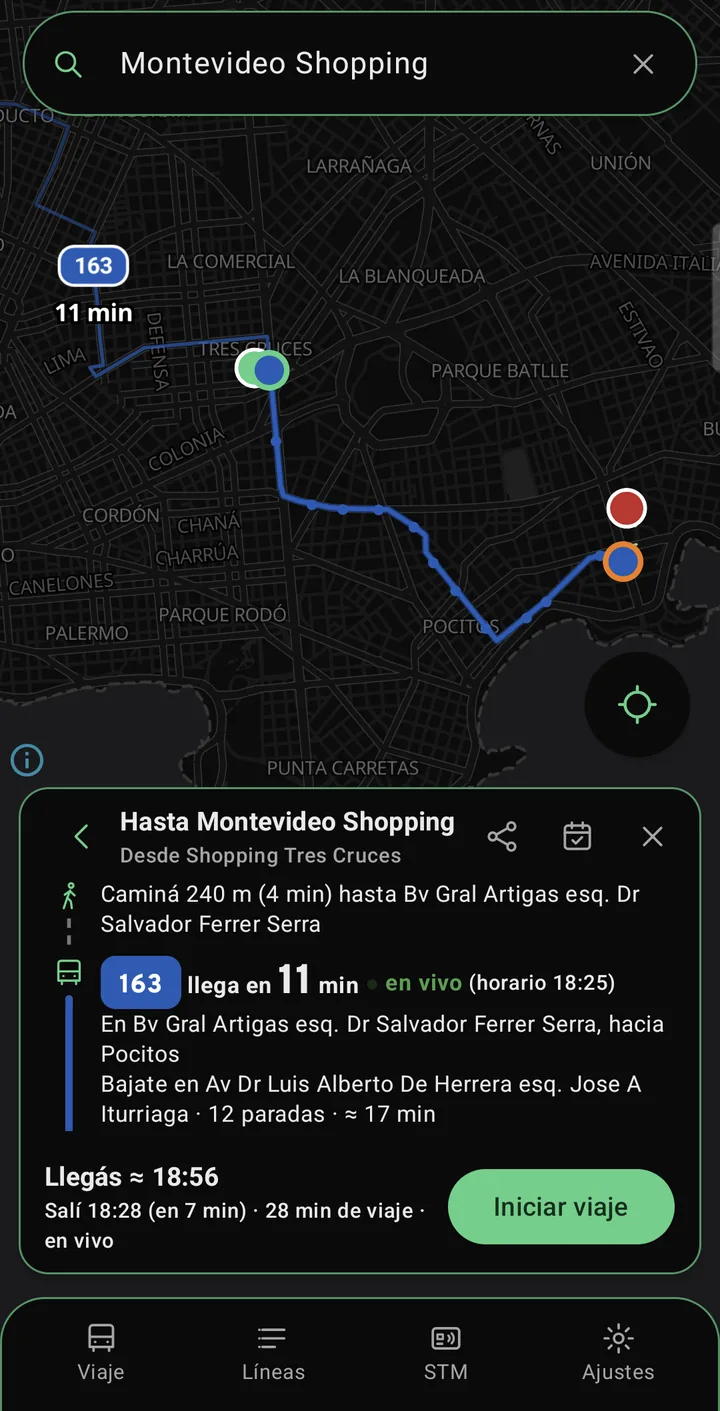
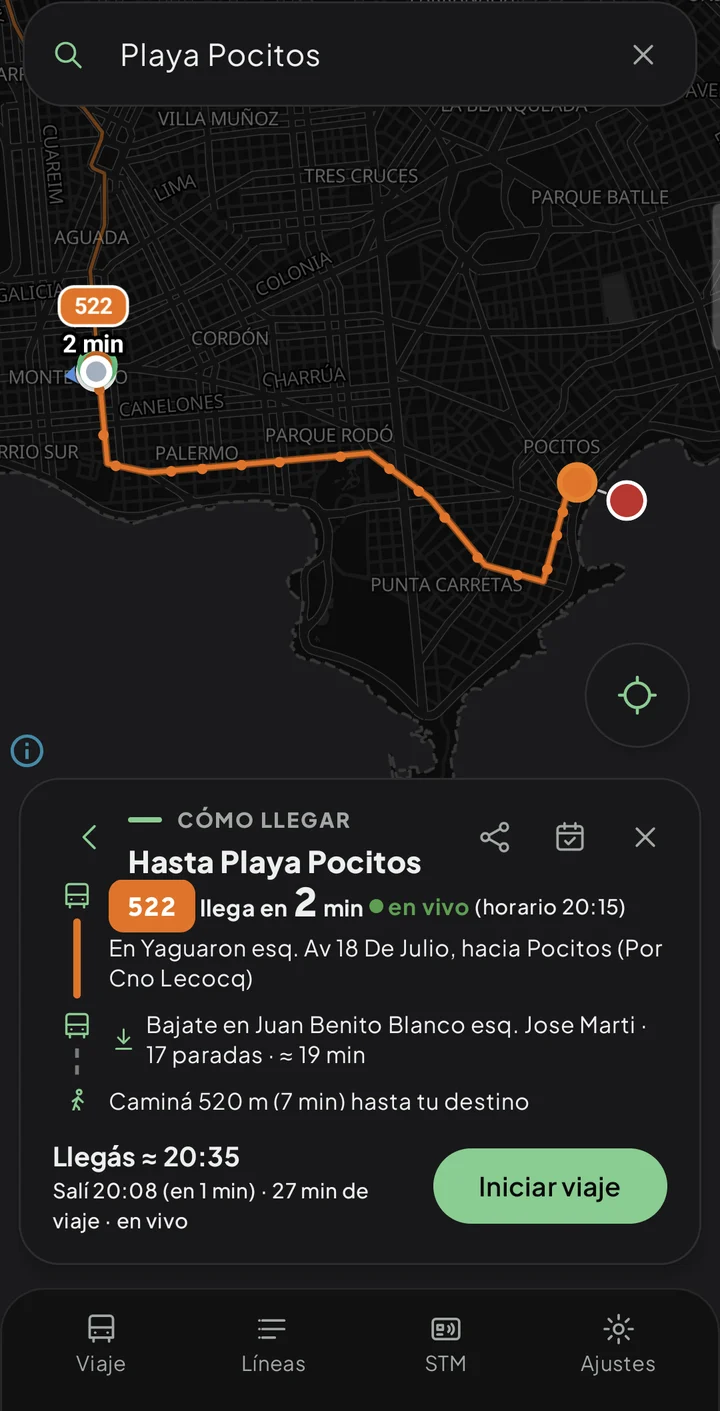
Capturas nuevas de la app con el estilo de la web (oscuro y claro)

diff --git a/index.html b/index.html
@@ -263,7 +263,7 @@
             </button>
           </div>
         </div>
-        <div class="carrusel" id="lista-capturas" tabindex="0" aria-label="Capturas de pantalla"><!--auto--><figure class="captura revelar" style="--retardo:0ms"><div class="captura__marco"><div class="captura__vacia"><span class="icono"><svg viewBox="0 0 24 24" fill="none" stroke="currentColor" stroke-width="2" stroke-linecap="round" stroke-linejoin="round" aria-hidden="true"><rect x="3" y="3" width="18" height="18" rx="3"/><circle cx="9" cy="9" r="2"/><path d="M21 15l-5-5L5 21"/></svg></span>Captura en camino</div><img src="img/capturas/captura-1.webp?v=3" alt="Elegí cómo ir" loading="lazy" decoding="async"></div><figcaption>Elegí cómo ir</figcaption></figure><figure class="captura revelar" style="--retardo:90ms"><div class="captura__marco"><div class="captura__vacia"><span class="icono"><svg viewBox="0 0 24 24" fill="none" stroke="currentColor" stroke-width="2" stroke-linecap="round" stroke-linejoin="round" aria-hidden="true"><rect x="3" y="3" width="18" height="18" rx="3"/><circle cx="9" cy="9" r="2"/><path d="M21 15l-5-5L5 21"/></svg></span>Captura en camino</div><img src="img/capturas/captura-2.webp?v=3" alt="Ómnibus en vivo" loading="lazy" decoding="async"></div><figcaption>Ómnibus en vivo</figcaption></figure><figure class="captura revelar" style="--retardo:180ms"><div class="captura__marco"><div class="captura__vacia"><span class="icono"><svg viewBox="0 0 24 24" fill="none" stroke="currentColor" stroke-width="2" stroke-linecap="round" stroke-linejoin="round" aria-hidden="true"><rect x="3" y="3" width="18" height="18" rx="3"/><circle cx="9" cy="9" r="2"/><path d="M21 15l-5-5L5 21"/></svg></span>Captura en camino</div><img src="img/capturas/captura-3.webp?v=3" alt="Planificá tu viaje" loading="lazy" decoding="async"></div><figcaption>Planificá tu viaje</figcaption></figure><figure class="captura revelar" style="--retardo:270ms"><div class="captura__marco"><div class="captura__vacia"><span class="icono"><svg viewBox="0 0 24 24" fill="none" stroke="currentColor" stroke-width="2" stroke-linecap="round" stroke-linejoin="round" aria-hidden="true"><rect x="3" y="3" width="18" height="18" rx="3"/><circle cx="9" cy="9" r="2"/><path d="M21 15l-5-5L5 21"/></svg></span>Captura en camino</div><img src="img/capturas/captura-4.webp?v=3" alt="Todo el recorrido" loading="lazy" decoding="async"></div><figcaption>Todo el recorrido</figcaption></figure><figure class="captura revelar" style="--retardo:270ms"><div class="captura__marco"><div class="captura__vacia"><span class="icono"><svg viewBox="0 0 24 24" fill="none" stroke="currentColor" stroke-width="2" stroke-linecap="round" stroke-linejoin="round" aria-hidden="true"><rect x="3" y="3" width="18" height="18" rx="3"/><circle cx="9" cy="9" r="2"/><path d="M21 15l-5-5L5 21"/></svg></span>Captura en camino</div><img src="img/capturas/captura-5.webp?v=3" alt="Todas las líneas" loading="lazy" decoding="async"></div><figcaption>Todas las líneas</figcaption></figure><!--/auto--></div>
+        <div class="carrusel" id="lista-capturas" tabindex="0" aria-label="Capturas de pantalla"><!--auto--><figure class="captura revelar" style="--retardo:0ms"><div class="captura__marco"><div class="captura__vacia"><span class="icono"><svg viewBox="0 0 24 24" fill="none" stroke="currentColor" stroke-width="2" stroke-linecap="round" stroke-linejoin="round" aria-hidden="true"><rect x="3" y="3" width="18" height="18" rx="3"/><circle cx="9" cy="9" r="2"/><path d="M21 15l-5-5L5 21"/></svg></span>Captura en camino</div><img src="img/capturas/captura-1.webp?v=4" alt="Elegí cómo ir" loading="lazy" decoding="async"></div><figcaption>Elegí cómo ir</figcaption></figure><figure class="captura revelar" style="--retardo:90ms"><div class="captura__marco"><div class="captura__vacia"><span class="icono"><svg viewBox="0 0 24 24" fill="none" stroke="currentColor" stroke-width="2" stroke-linecap="round" stroke-linejoin="round" aria-hidden="true"><rect x="3" y="3" width="18" height="18" rx="3"/><circle cx="9" cy="9" r="2"/><path d="M21 15l-5-5L5 21"/></svg></span>Captura en camino</div><img src="img/capturas/captura-2.webp?v=4" alt="Ómnibus en vivo" loading="lazy" decoding="async"></div><figcaption>Ómnibus en vivo</figcaption></figure><figure class="captura revelar" style="--retardo:180ms"><div class="captura__marco"><div class="captura__vacia"><span class="icono"><svg viewBox="0 0 24 24" fill="none" stroke="currentColor" stroke-width="2" stroke-linecap="round" stroke-linejoin="round" aria-hidden="true"><rect x="3" y="3" width="18" height="18" rx="3"/><circle cx="9" cy="9" r="2"/><path d="M21 15l-5-5L5 21"/></svg></span>Captura en camino</div><img src="img/capturas/captura-3.webp?v=4" alt="Planificá tu viaje" loading="lazy" decoding="async"></div><figcaption>Planificá tu viaje</figcaption></figure><figure class="captura revelar" style="--retardo:270ms"><div class="captura__marco"><div class="captura__vacia"><span class="icono"><svg viewBox="0 0 24 24" fill="none" stroke="currentColor" stroke-width="2" stroke-linecap="round" stroke-linejoin="round" aria-hidden="true"><rect x="3" y="3" width="18" height="18" rx="3"/><circle cx="9" cy="9" r="2"/><path d="M21 15l-5-5L5 21"/></svg></span>Captura en camino</div><img src="img/capturas/captura-4.webp?v=4" alt="Todo el recorrido" loading="lazy" decoding="async"></div><figcaption>Todo el recorrido</figcaption></figure><figure class="captura revelar" style="--retardo:270ms"><div class="captura__marco"><div class="captura__vacia"><span class="icono"><svg viewBox="0 0 24 24" fill="none" stroke="currentColor" stroke-width="2" stroke-linecap="round" stroke-linejoin="round" aria-hidden="true"><rect x="3" y="3" width="18" height="18" rx="3"/><circle cx="9" cy="9" r="2"/><path d="M21 15l-5-5L5 21"/></svg></span>Captura en camino</div><img src="img/capturas/captura-5.webp?v=4" alt="Todas las líneas" loading="lazy" decoding="async"></div><figcaption>Todas las líneas</figcaption></figure><!--/auto--></div>
       </div>
     </section>
 

diff --git a/config.js b/config.js
@@ -65,13 +65,13 @@ window.OMNIUY = {
   /* ---------- CAPTURAS ----------
      Subí tus imágenes a la carpeta img/capturas/ con estos nombres.
      Mientras no existan, se muestra un recuadro de reemplazo.        */
-  capturaPortada: "img/capturas/portada.webp?v=3",  // La que va dentro del celular de arriba
+  capturaPortada: "img/capturas/portada.webp?v=4",  // La que va dentro del celular de arriba
   capturas: [
-    { archivo: "img/capturas/captura-1.webp?v=3", titulo: "Elegí cómo ir" },
-    { archivo: "img/capturas/captura-2.webp?v=3", titulo: "Ómnibus en vivo" },
-    { archivo: "img/capturas/captura-3.webp?v=3", titulo: "Planificá tu viaje" },
-    { archivo: "img/capturas/captura-4.webp?v=3", titulo: "Todo el recorrido" },
-    { archivo: "img/capturas/captura-5.webp?v=3", titulo: "Todas las líneas" },
+    { archivo: "img/capturas/captura-1.webp?v=4", titulo: "Elegí cómo ir" },
+    { archivo: "img/capturas/captura-2.webp?v=4", titulo: "Ómnibus en vivo" },
+    { archivo: "img/capturas/captura-3.webp?v=4", titulo: "Planificá tu viaje" },
+    { archivo: "img/capturas/captura-4.webp?v=4", titulo: "Todo el recorrido" },
+    { archivo: "img/capturas/captura-5.webp?v=4", titulo: "Todas las líneas" },
   ],
 
   /* ---------- TEXTOS DE LA PÁGINA ---------- */
